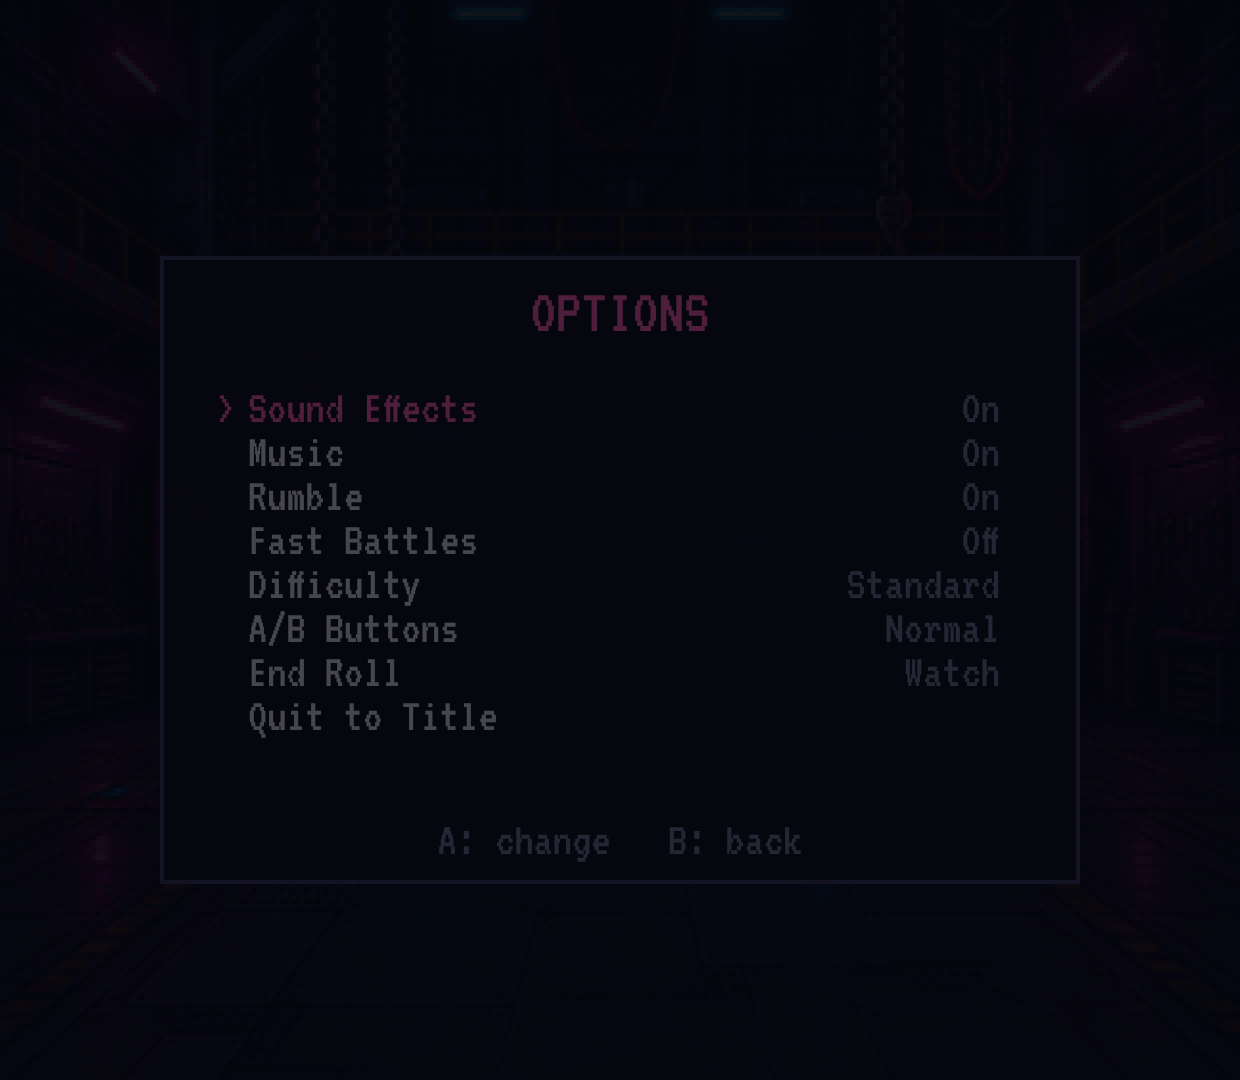
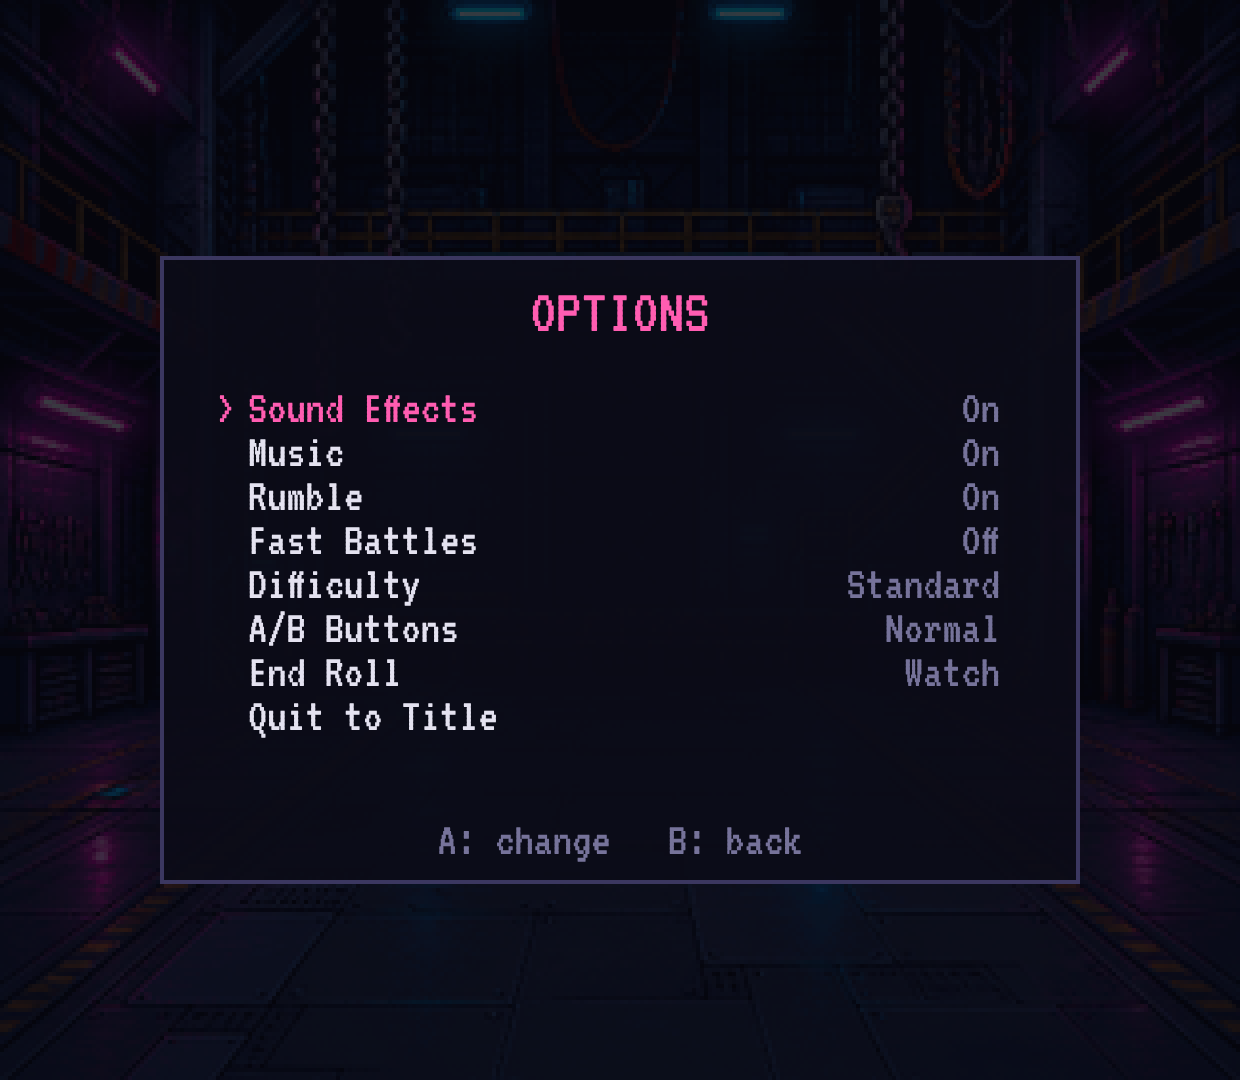
The options picture waits for the fade; the README mentions swapping A and B
Claude-Session: https://claude.ai/code/session_01D72L5UjxxzTBcVetS4xsP3

diff --git a/e2e/meta.spec.ts b/e2e/meta.spec.ts
@@ -148,6 +148,8 @@ test('the end roll can be watched again from the options: it climbs by itself, a
   await enterHub(page);
   await choose(page, 'options');
   await waitForScreen(page, 'options');
+  // Not in fast mode a screen fades in: wait for that before the picture is taken.
+  await page.waitForTimeout(500);
   await page.screenshot({ path: shot('options-end-roll') });
   await choose(page, 'credits');
   await waitForScreen(page, 'credits');

diff --git a/README.md b/README.md
@@ -21,7 +21,8 @@ uitleg staat in de [handleiding](docs/handleiding.md).
 | Links / rechts | Kopen of verkopen in de winkel, van doelwit wisselen, bladeren |
 | Start | Invoer-venster aan of uit (toont de code van elke knop) |
 
-Op een computer: pijltjestoetsen, Enter, Escape, Q/E en spatie.
+Zitten A en B op jouw toestel andersom? Zet onder **Options** de regel **A/B Buttons** op
+**Swapped**. Op een computer: pijltjestoetsen, Enter, Escape, Q/E en spatie.
 
 ## Wat er in zit
 
